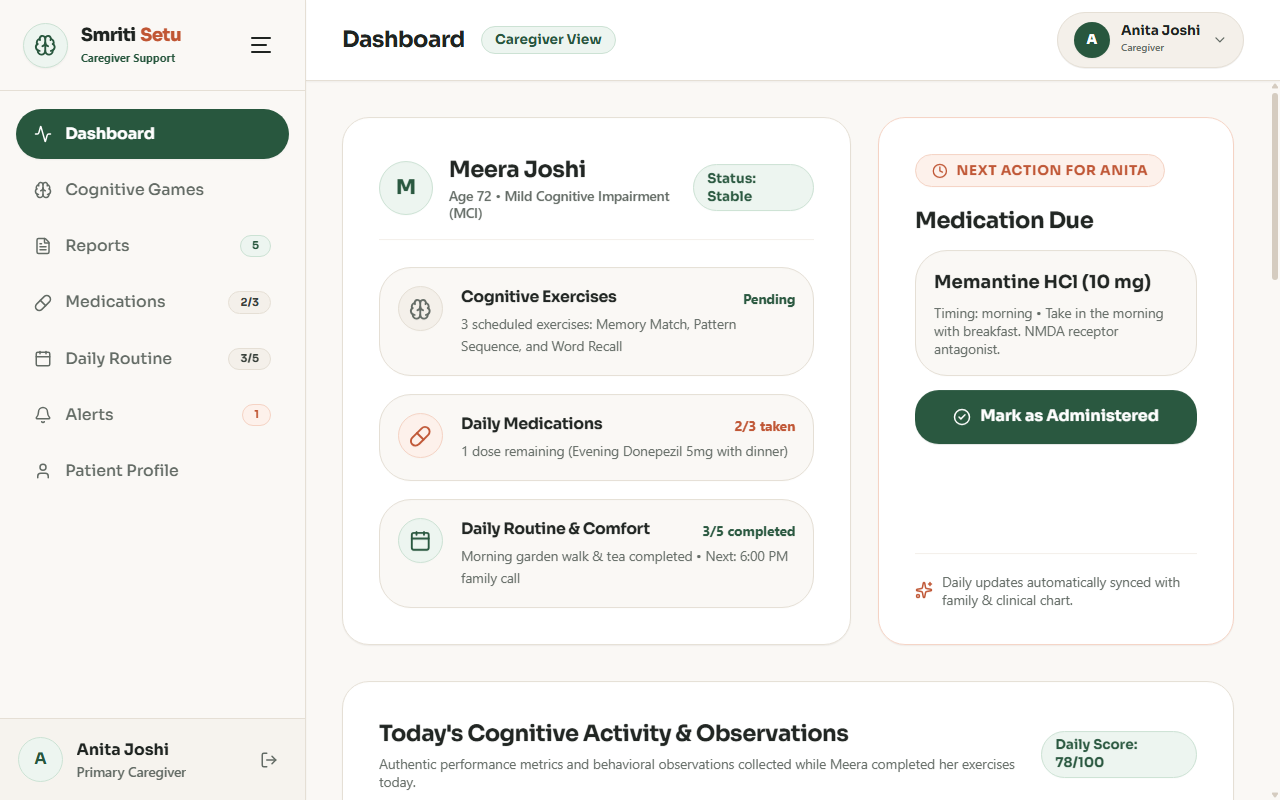
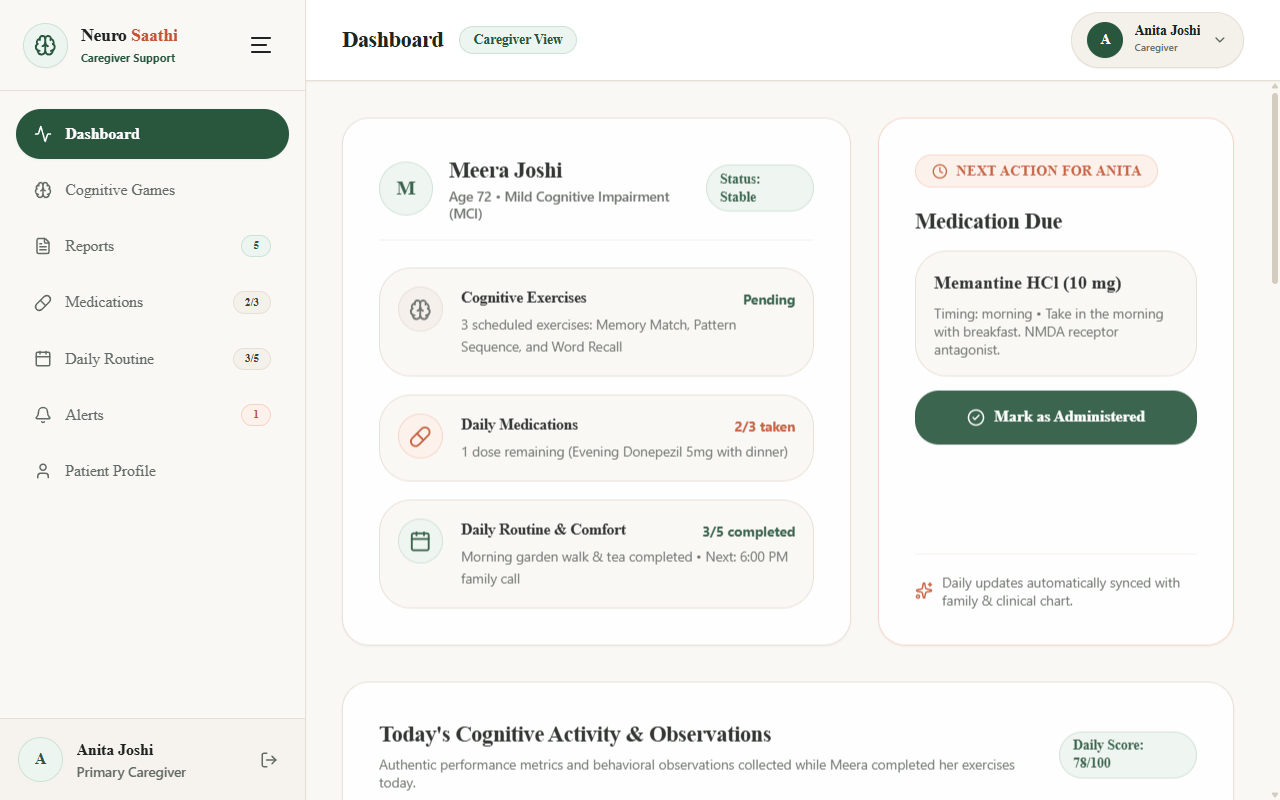
fix(review): correct model description in docs, refresh screenshots, remove dead video link, label SOS demo mode, and unify name to NeuroSaathi

diff --git a/src/components/modals/PatientSOSModal.tsx b/src/components/modals/PatientSOSModal.tsx
@@ -201,19 +201,29 @@ export const PatientSOSModal: React.FC<PatientSOSModalProps> = ({
                   {alertSent ? <CheckCircle2 className="w-6 h-6" /> : <Bell className="w-6 h-6" />}
                 </div>
                 <div>
-                  <h3 className="font-['Sora'] font-bold text-lg text-[#1F2421]">
-                    {alertSent
-                      ? (isHi ? 'देखभालकर्ता को अलर्ट भेजा गया' : 'Caregiver Alert Sent!')
-                      : (isHi ? 'देखभालकर्ता को सूचित करें' : 'Alert Caregiver')}
-                  </h3>
+                  <div className="flex items-center gap-2">
+                    <h3 className="font-['Sora'] font-bold text-lg text-[#1F2421]">
+                      {alertSent
+                        ? (isHi ? 'देखभालकर्ता को अलर्ट भेजा गया' : 'Caregiver Alert Sent!')
+                        : (isHi ? 'देखभालकर्ता को सूचित करें' : 'Alert Caregiver')}
+                    </h3>
+                    <span className="px-2 py-0.5 rounded-md bg-amber-100 text-amber-800 text-[10px] font-bold border border-amber-300">
+                      {isHi ? 'डेमो मोड' : 'Demo Mode'}
+                    </span>
+                  </div>
                   <p className="text-sm text-[#636B65] mt-0.5 font-medium">
                     {alertSent
                       ? (isHi
-                          ? `${caretaker.name} के डिवाइस पर संदेश भेजा गया (${alertTime})`
+                          ? `${caretaker.name} के पोर्टल पर संदेश भेजा गया (${alertTime})`
                           : `Alert dispatched to ${caretaker.name}'s portal (${alertTime})`)
                       : (isHi
                           ? `${caretaker.name} को सीधे आपातकालीन संदेश भेजें`
                           : `Send urgent notification to ${caretaker.name}`)}
+                  </p>
+                  <p className="text-[11px] text-[#8C7A6B] mt-1">
+                    {isHi
+                      ? 'ℹ डेमो मोड: अलर्ट स्थानीय पोर्टल सत्रों के बीच प्रसारित होता है। वास्तविक आपातकाल के लिए सीधे कॉल बटन का उपयोग करें।'
+                      : 'ℹ Demo Mode: Alerts broadcast across local portal sessions. For real emergencies, use direct phone call buttons below.'}
                   </p>
                 </div>
               </div>

diff --git a/src/components/portals/CaregiverPortal.tsx b/src/components/portals/CaregiverPortal.tsx
@@ -2373,11 +2373,14 @@ export const CaregiverPortal: React.FC<CaregiverPortalProps> = ({
                 {/* ─── 1. PATIENT EMERGENCY SOS SIGNALS SECTION ─── */}
                 <div className="space-y-3.5">
                   <div className="flex items-center justify-between">
-                    <div className="flex items-center gap-2">
+                    <div className="flex items-center gap-2 flex-wrap">
                       <span className={`w-2.5 h-2.5 rounded-full ${activeSOSAlerts.length > 0 ? 'bg-red-600 animate-ping' : 'bg-[#28573E]'}`} />
                       <h4 className="font-['Sora'] font-black text-xs sm:text-sm tracking-wider uppercase text-[#1F2421]">
                         {language === 'hi' ? 'आपातकालीन सहायता एवं SOS संकेत' : 'Emergency Assistance & Patient SOS Signals'}
                       </h4>
+                      <span className="px-2 py-0.5 rounded-md bg-amber-100 text-amber-800 text-[10px] font-bold border border-amber-300">
+                        {language === 'hi' ? 'डेमो मोड: स्थानीय प्रसारण' : 'Demo Mode: Local Broadcast'}
+                      </span>
                     </div>
 
                     {resolvedSOSAlerts.length > 0 && (
@@ -2506,8 +2509,8 @@ export const CaregiverPortal: React.FC<CaregiverPortalProps> = ({
                           </p>
                           <p className="text-[11px] text-[#636B65] mt-0.5">
                             {language === 'hi'
-                              ? 'रोगी पोर्टल से कोई सक्रिय संकट संकेत नहीं। अलार्म स्वचालित रूप से चालू होने के लिए तैयार है।'
-                              : 'No active distress signals from patient portal. Siren listener is armed and ready.'}
+                              ? 'रोगी पोर्टल से कोई सक्रिय संकट संकेत नहीं। अलार्म स्वचालित रूप से चालू होने के लिए तैयार है। (डेमो मोड: स्थानीय ब्रॉडकास्ट चैनल; क्लाउड/एसएमएस बैकएंड उत्पादन हेतु आवश्यक है)।'
+                              : 'No active distress signals from patient portal. Siren listener is armed and ready. (Demo Mode: local cross-tab broadcast; production requires cloud push/SMS gateway).'}
                           </p>
                         </div>
                       </div>

diff --git a/src/services/ai-game-calibrator.ts b/src/services/ai-game-calibrator.ts
@@ -1,5 +1,5 @@
 /**
- * SmritiNER - Neuro-Adaptive AI Game Calibrator Service
+ * NeuroSaathi - Neuro-Adaptive AI Game Calibrator Service
  * 
  * Uses Cloud AI (OpenAI GPT-4o / GPT-4o-mini or Google Gemini) via API key
  * to evaluate millisecond patient telemetry during/between game rounds.
@@ -197,7 +197,7 @@ export class AIGameCalibratorService {
 
     const profile = getGameCognitiveProfile(input.gameId);
 
-    const promptSystem = `You are an expert Neuropsychological Adaptive Game Director in the SmritiNER cognitive platform.
+    const promptSystem = `You are an expert Neuropsychological Adaptive Game Director in the NeuroSaathi cognitive platform.
 Task: Analyze real-time patient gameplay telemetry and dynamically calibrate the difficulty tier (1 to ${input.maxTiers}) and cognitive scaffolding for the next round.
 
 CLINICAL NORMS FOR THIS SPECIFIC GAME ("${profile.displayName}" - ${profile.domain}):

diff --git a/src/engine/adaptive-game-flow.ts b/src/engine/adaptive-game-flow.ts
@@ -1,5 +1,5 @@
 /**
- * SmritiNER - Dynamic Adaptive Game Flow & Multi-Domain Clinical Orchestrator
+ * NeuroSaathi - Dynamic Adaptive Game Flow & Multi-Domain Clinical Orchestrator
  * 
  * Dynamically analyzes patient cognitive load, hippocampal fatigue, Parkinsonian
  * tremor spikes, and domain deficits to adapt the workout flow on the fly ("changing games on the flow").
@@ -60,7 +60,7 @@ export interface FlowEvaluationContext {
   patientLanguage?: SupportedLanguage;
 }
 
-// 10 Active Validated Games in SmritiNER
+// 10 Active Validated Games in NeuroSaathi
 export const ACTIVE_10_GAMES: GameId[] = [
   'memory-match',
   'sequence-recall',

diff --git a/src/engine/adaptive-assistance.ts b/src/engine/adaptive-assistance.ts
@@ -1,5 +1,5 @@
 /**
- * SmritiNER - Extreme Patient-Profile-Adaptive Assistance Engine
+ * NeuroSaathi - Extreme Patient-Profile-Adaptive Assistance Engine
  * 
  * Dynamically classifies patient impairment phenotype and tailors intervention
  * latency (T_assist), scaffolding hierarchy (Level 1 Subtle -> Level 2 Contextual -> Level 3 Direct),

diff --git a/src/utils/dailySessionManager.ts b/src/utils/dailySessionManager.ts
@@ -1,5 +1,5 @@
 /**
- * SmritiNER - Daily Session Manager & Multi-Game Telemetry Aggregator
+ * NeuroSaathi - Daily Session Manager & Multi-Game Telemetry Aggregator
  * 
  * Aggregates, persists, and calculates daily cognitive scores from ONLY
  * the games that were actually recommended and played on a specific day.

diff --git a/src/utils/reportsStorage.ts b/src/utils/reportsStorage.ts
@@ -1,5 +1,5 @@
 /**
- * Smriti Setu - Reports Storage & Management Engine
+ * NeuroSaathi - Reports Storage & Management Engine
  * 
  * Manages generated reports for the Caregiver Console:
  * - Stores Full Session Evaluations and Game-Generated Reports

diff --git a/src/utils/safeStorage.ts b/src/utils/safeStorage.ts
@@ -1,5 +1,5 @@
 /**
- * Safe Storage Adapter for Smriti Setu
+ * Safe Storage Adapter for NeuroSaathi
  * 
  * Provides an isomorphic, fault-tolerant Storage implementation.
  * - In browser: Delegates to window.localStorage with quota-error shielding.

diff --git a/src/engine/latency-timer.ts b/src/engine/latency-timer.ts
@@ -1,5 +1,5 @@
 /**
- * SmritiNER - Clinical In-Game Latency & Adaptive Timing Engine
+ * NeuroSaathi - Clinical In-Game Latency & Adaptive Timing Engine
  * Grounded in CANTAB & Cogstate Neuropsychological Standards for Elderly MCI/Dementia
  */
 

diff --git a/src/locales/translations.ts b/src/locales/translations.ts
@@ -1,4 +1,4 @@
-// SmritiNER / NeuroSaathi 4-Language Localization Dictionary
+// NeuroSaathi 4-Language Localization Dictionary
 // Covers Assamese (as), Bengali (bn), Hindi (hi), and English (en)
 
 export type SupportedLanguage = 'en' | 'hi';

diff --git a/src/utils/emergencyAudio.ts b/src/utils/emergencyAudio.ts
@@ -1,4 +1,4 @@
-// Emergency Alarm Audio Engine for Smriti Setu
+// Emergency Alarm Audio Engine for NeuroSaathi
 // Generates loud, unmistakable two-tone siren / medical distress alarm using Web Audio API
 
 class EmergencyAlarmEngine {

diff --git a/src/engine/circadian-manager.ts b/src/engine/circadian-manager.ts
@@ -1,5 +1,5 @@
 /**
- * SmritiNER - Circadian Rhythm & Sundowning Time Manager
+ * NeuroSaathi - Circadian Rhythm & Sundowning Time Manager
  * Protects dementia patients during high-vulnerability evening hours (Sundowning)
  */
 
